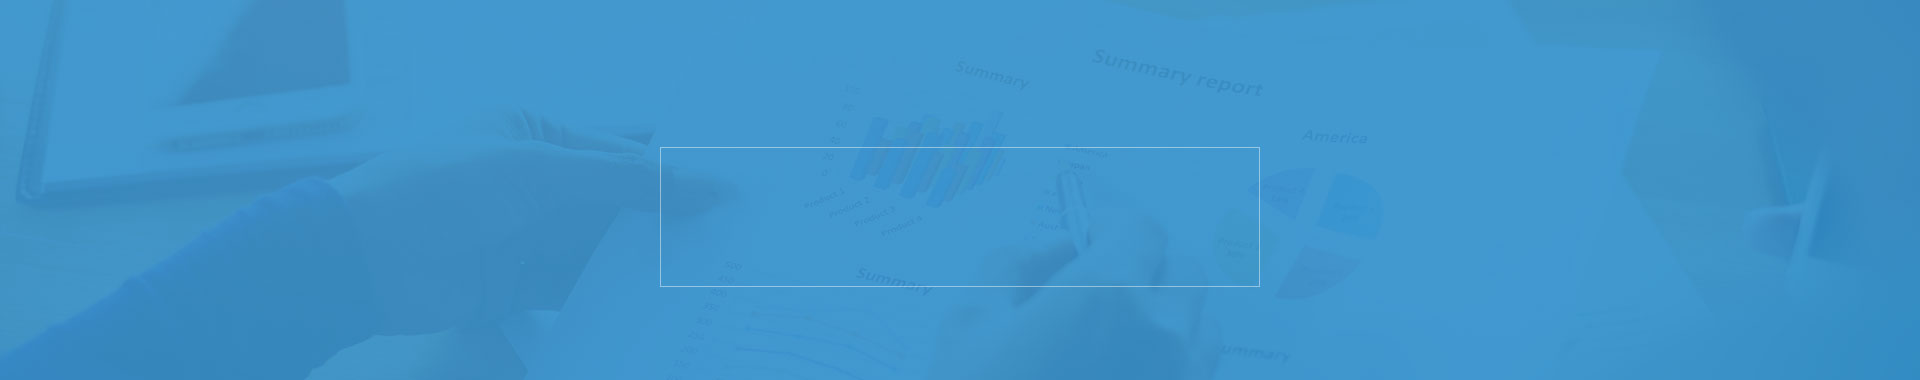
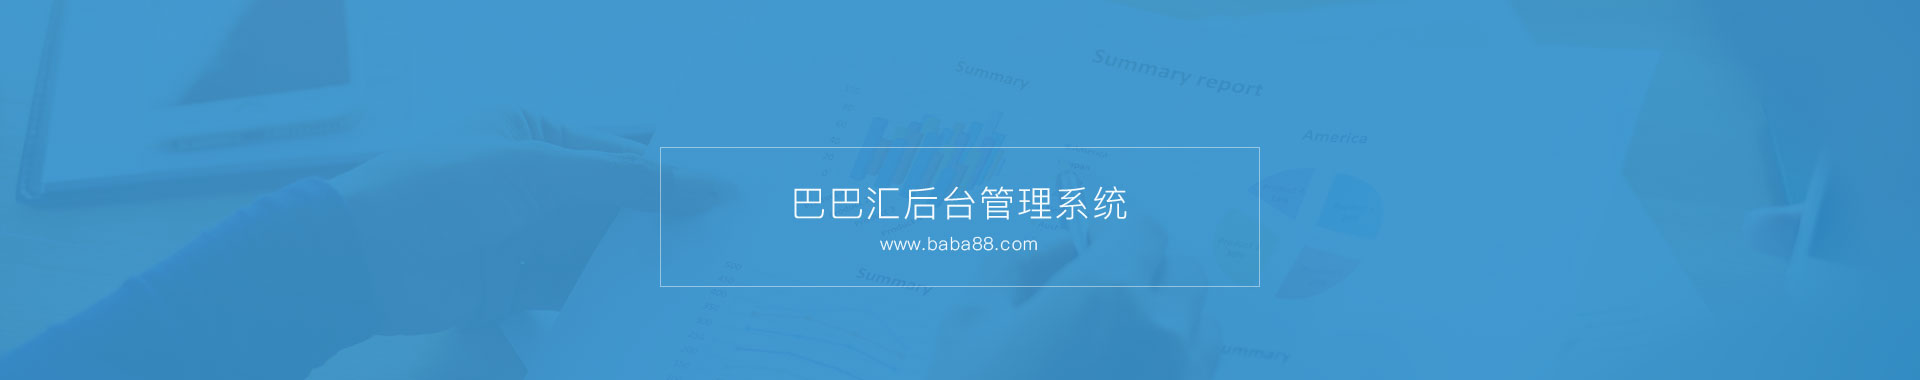
login bg

Changed region(s): [[0.4062, 0.4921, 0.5938, 0.5789], [0.4375, 0.6079, 0.5625, 0.6658]]

diff --git a/src/app/seer/content/announcement/announcement.component.ts b/src/app/seer/content/announcement/announcement.component.ts
@@ -1,6 +1,7 @@
 import {Component, OnDestroy, OnInit} from "@angular/core";
 import {AnnouncementService} from "./announcement.service";
 import {SeerDialogService} from "../../../theme/services/seer-dialog.service";
+import {UPDATE,DELETE,ENABLE,DISABLE} from "../../common/seer-table/seer-table.actions";
 import {ActivatedRoute, Router} from "@angular/router";
 import * as _ from 'lodash';
 
@@ -31,7 +32,7 @@ export class AnnouncementComponent implements OnInit, OnDestroy {
     {key: 'state', label: '状态'}
   ];
 
-  actionSet = {
+  /*actionSet = {
     'update': {
       'type': 'update',
       'name': '编辑',
@@ -60,7 +61,7 @@ export class AnnouncementComponent implements OnInit, OnDestroy {
       'icon': 'icon-checkmark',
       'action': 'disable'
     }
-  };
+  };*/
 
   constructor(private _announcementService: AnnouncementService, private _dialogService: SeerDialogService,
               private _router: Router, private _activatedRoute: ActivatedRoute) {
@@ -80,10 +81,10 @@ export class AnnouncementComponent implements OnInit, OnDestroy {
           let actions;
           switch (status) {
             case "1":
-              actions = [this.actionSet.disable, this.actionSet.update, this.actionSet.delete];
+              actions = [DISABLE, UPDATE, DELETE];
               break;
             case "2":
-              actions = [this.actionSet.startUsing, this.actionSet.update, this.actionSet.delete];
+              actions = [ENABLE, UPDATE, DELETE];
               break;
             default:
               break;

diff --git a/src/app/seer/login/login.component.scss b/src/app/seer/login/login.component.scss
@@ -6,9 +6,18 @@
   display: flex;
   align-items: center;
   flex-direction: column;
-  background: url('../../../assets/img/theme/loginBg.jpg') center top  no-repeat, #fff;
+  background: #fff;
   height: 100%;
   width: 100%;
+
+}
+
+
+.auth-bg-block {
+  width: 100%;
+  height: 40%;
+  min-height: 300px;
+  background: url('../../../assets/img/theme/loginBg.jpg') center top / cover  no-repeat, #4299cf;
   h1, h4 {
     text-align: center;
   }
@@ -25,13 +34,12 @@
   }
 }
 
-
 .auth-block {
   width: 384px;
   margin: 0 auto;
   padding: 32px;
   color: #fff;
-  margin-top: 140px;
+  margin-top: 90px;
   flex: 1;
   .logo {
     display: block;

diff --git a/src/app/seer/login/login.component.html b/src/app/seer/login/login.component.html
@@ -1,8 +1,7 @@
 <div class="auth-body-block">
 
   <div class="auth-main">
-    <h1>巴巴汇后台管理系统</h1>
-    <h4>www.baba88.com</h4>
+    <div class="auth-bg-block"></div>
     <div class="auth-block">
       <!-- <img class="logo" src="../../../assets/img/theme/loginLogo.png" /> -->
       <!--<h1 style="font-size: 64px; color: #000; text-align: center">纯·演示版</h1>-->
